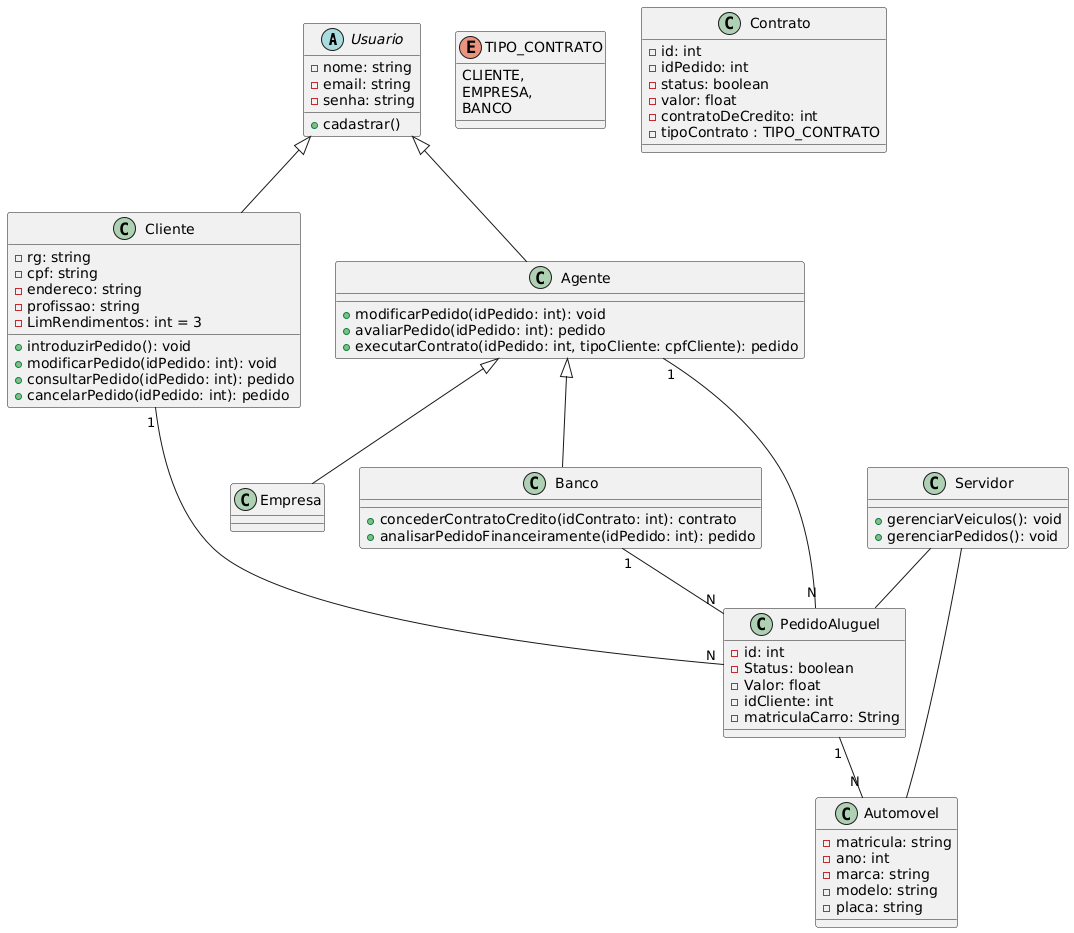
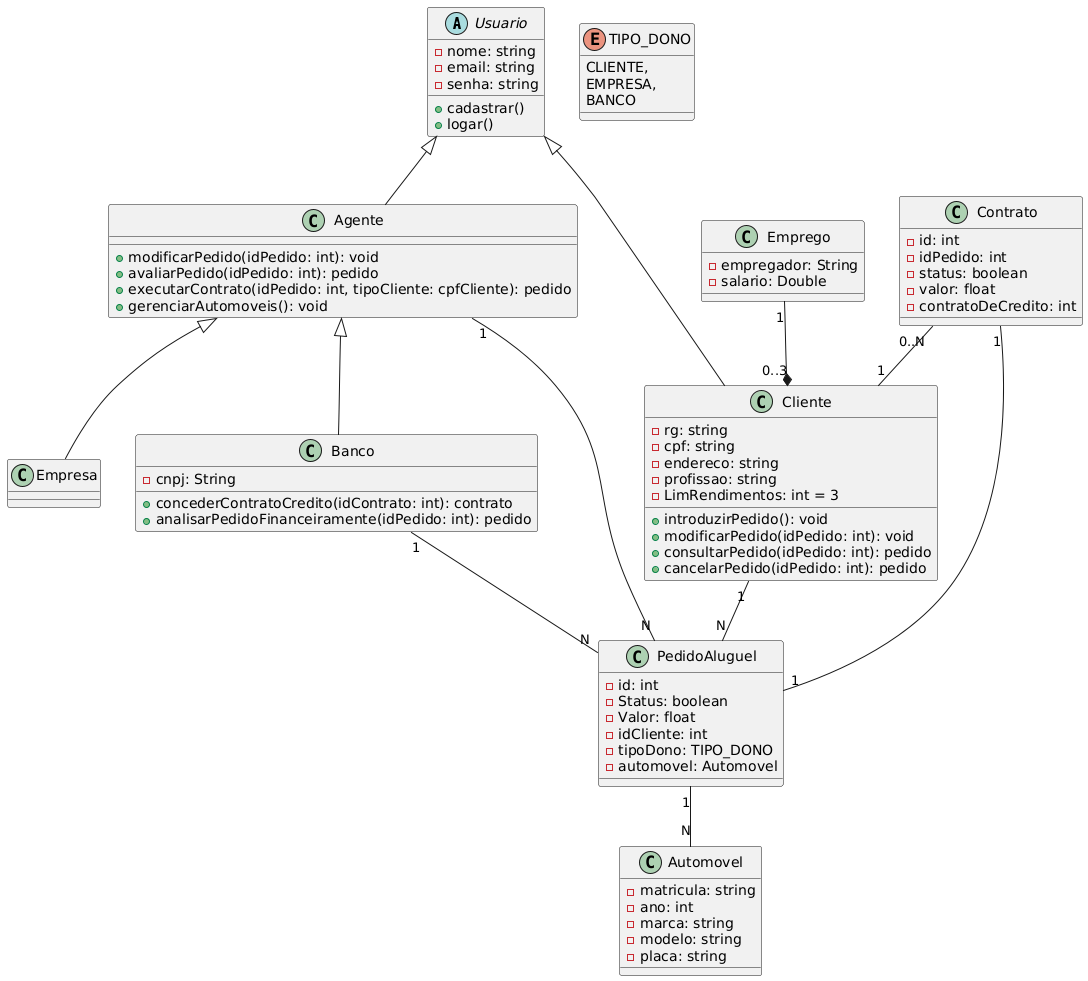
diagrama de classes

diff --git a/projeto/diagramaDeClasseSprint2.md b/projeto/diagramaDeClasseSprint2.md
@@ -4,9 +4,10 @@ abstract Usuario {
     -email: string
     -senha: string
     +cadastrar()
+    +logar()
 }
 
-enum TIPO_CONTRATO {
+enum TIPO_DONO {
     CLIENTE,
     EMPRESA,
     BANCO
@@ -28,12 +29,14 @@ class Agente {
     +modificarPedido(idPedido: int): void
     +avaliarPedido(idPedido: int): pedido
     +executarContrato(idPedido: int, tipoCliente: cpfCliente): pedido
+    +gerenciarAutomoveis(): void
 }
 
 class Empresa {
 }
 
 class Banco {
+    -cnpj: String
     +concederContratoCredito(idContrato: int): contrato
     +analisarPedidoFinanceiramente(idPedido: int): pedido
 }
@@ -43,7 +46,8 @@ class PedidoAluguel {
     -Status: boolean
     -Valor: float
     -idCliente: int
-    -matriculaCarro: String
+    -tipoDono: TIPO_DONO
+    -automovel: Automovel
     
 }
 
@@ -53,7 +57,6 @@ class Contrato {
     -status: boolean
     -valor: float
     -contratoDeCredito: int
-    -tipoContrato : TIPO_CONTRATO
 }
 
 class Automovel {
@@ -64,20 +67,21 @@ class Automovel {
     -placa: string
 }
 
-class Servidor {
-    +gerenciarVeiculos(): void
-    +gerenciarPedidos(): void
+class Emprego {
+    -empregador: String
+    -salario: Double
 }
 
 Usuario <|-- Cliente
 Usuario <|-- Agente
 Agente <|-- Empresa
 Agente <|-- Banco
+Emprego "1" --* "0..3"Cliente
 
+Contrato "0..N" -- "1" Cliente
+Contrato "1" -- "1" PedidoAluguel
 Cliente "1" -- "N" PedidoAluguel
 Agente "1" -- "N" PedidoAluguel 
 Banco "1" -- "N" PedidoAluguel 
 PedidoAluguel "1" -- "N" Automovel
-Servidor -- PedidoAluguel  
-Servidor -- Automovel
 @enduml
